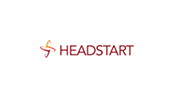
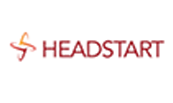
partners added

Changed region(s): [[0.0578, 0.2913, 0.9538, 0.6117]]

diff --git a/index.html b/index.html
@@ -641,13 +641,13 @@
                 </div>
                 <div class="col-md col-sm-6">
                   <img src="img/partners/3.png" alt="">
-                </div><!--
-                <div class="col-md col-sm-6">
-                  <img src="img/partners/1.png" alt="">
                 </div>
                 <div class="col-md col-sm-6">
-                  <img src="img/partners/1.png" alt="">
-                </div>-->
+                  <img src="img/partners/4.png" alt="">
+                </div>
+                <div class="col-md col-sm-6">
+                  <img src="img/partners/5.png" alt="">
+                </div>
               </div>
             </div>
           </div>
